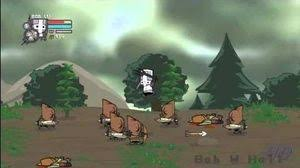
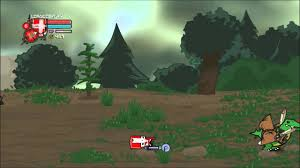
setup enemies

diff --git a/assets/apps/game.js b/assets/apps/game.js
@@ -58,9 +58,37 @@ var choice = 0
 
 startPage()
 
-var enemy = [{
-    name: 'Theif',
+var enemy = [ {
+    name: 'Barbarian',
     health: 100,
+    maxHealth: 100,
+    hits: 0,
+    damage: {
+        quick: 15,
+        heavy: 20,
+        arrow: 10,
+        poison: 15
+    },
+    img: ['assets/pics/barbarian.png', '300vh'],
+    backImg: 'url("assets/pics/castle.jpg")',
+    poisoned: -1,
+    shocked: 0,
+    frozen: 0,
+    healthBonus: 0,
+    attack: {
+        attackName1: 'Quick Attack',
+        attackName2: 'Heavy Attack',
+        attackName3: 'Arrow',
+        quick: 12,
+        heavy: 20,
+        range: 5,
+        rangebase: 5,
+        hitChance: [0, 1, 1, 2, 3]
+    }, 
+}, {
+    name: 'Thief',
+    health: 100,
+    maxHealth: 100,
     hits: 0,
     damage: {
         quick: 10,
@@ -68,7 +96,7 @@ var enemy = [{
         arrow: 25,
         poison: 10
     },
-    img: 'assets/pics/thief.png',
+    img: ['assets/pics/thief.png', '200vh'],
     backImg: 'url("assets/pics/forrest-background.jpg")',
     poisoned: -1,
     shocked: 0,
@@ -85,16 +113,71 @@ var enemy = [{
         hitChance: [0, 0, 1, 1, 1, 2, 3, 3]
     } 
 }, {
-    name: 'Theif2',
+    name: 'Bear',
     health: 100,
+    maxHealth: 100,
+    hits: 0,
+    damage: {
+        quick: 15,
+        heavy: 15,
+        arrow: 10,
+        poison: 5
+    },
+    img: ['assets/pics/bear.png', '200vh'],
+    backImg: 'url("assets/pics/grass.jpg")',
+    poisoned: -1,
+    shocked: 0,
+    frozen: 0,
+    healthBonus: 0,
+    attack: {
+        attackName1: 'Quick Attack',
+        attackName2: 'Heavy Attack',
+        attackName3: 'Ice Ball',
+        quick: 10,
+        heavy: 15,
+        range: 10,
+        rangebase: 10,
+        hitChance: [1, 1, 1, 1, 2, 3]
+    }, 
+}, {
+    name: 'Cone Head',
+    health: 125,
+    maxHealth: 125,
     hits: 0,
     damage: {
         quick: 10,
-        heavy: 15,
-        arrow: 25,
-        poison: 10
+        heavy: 10,
+        arrow: 10,
+        poison: 1
     },
-    img: 'assets/pics/thief.png',
+    img: ['assets/pics/conehead.png', '200vh'],
+    backImg: 'url("assets/pics/wedding.jpg")',
+    poisoned: -1,
+    shocked: 0,
+    frozen: 0,
+    healthBonus: 0,
+    attack: {
+        attackName1: 'Quick Attack',
+        attackName2: 'Heavy Attack',
+        attackName3: 'Arrow Rain',
+        quick: 10,
+        heavy: 15,
+        range: 25,
+        rangebase: 25,
+        hitChance: [0, 0, 1, 1, 1, 1, 2, 2, 3]
+    }, 
+}, {
+    name: 'Beefy Thief',
+    health: 200,
+    maxHealth: 200,
+    hits: 0,
+    damage: {
+        quick: 15,
+        heavy: 20,
+        arrow: 15,
+        poison: 15
+    },
+    img: ['assets/pics/beefy-thief.png', '200vh'],
     backImg: 'url("assets/pics/forrest-background.jpg")',
     poisoned: -1,
     shocked: 0,
@@ -104,18 +187,99 @@ var enemy = [{
         attackName1: 'Quick Attack',
         attackName2: 'Heavy Attack',
         attackName3: 'Arrow',
-        quick: 5,
-        heavy: 10,
-        range: 25,
-        rangebase: 25,
-        hitChance: [0, 0, 1, 1, 1, 2, 3, 3]
+        quick: 10,
+        heavy: 20,
+        range: 15,
+        rangebase: 15,
+        hitChance: [0, 0, 0, 1, 1, 1, 2, 3]
     }, 
-},]
+}, {
+    name: 'Fishman',
+    health: 150,
+    maxHealth: 150,
+    hits: 0,
+    damage: {
+        quick: 15,
+        heavy: 20,
+        arrow: 5,
+        poison: 10
+    },
+    img: ['assets/pics/fishman.png', '200vh'],
+    backImg: 'url("assets/pics/temple.jpg")',
+    poisoned: -1,
+    shocked: 0,
+    frozen: 0,
+    healthBonus: 0,
+    attack: {
+        attackName1: 'Quick Attack',
+        attackName2: 'Heavy Attack',
+        attackName3: 'Arrow',
+        quick: 15,
+        heavy: 5,
+        range: 0,
+        rangebase: 0,
+        hitChance: [0, 0, 0, 1, 1, 1,2]
+    }, 
+}, {
+    name: 'Beefy Alien',
+    health: 200,
+    maxHealth: 200,
+    hits: 0,
+    damage: {
+        quick: 15,
+        heavy: 20,
+        arrow: 10,
+        poison: 15
+    },
+    img: ['assets/pics/alien.png', '200vh'],
+    backImg: 'url("ship.jpg")',
+    poisoned: -1,
+    shocked: 0,
+    frozen: 0,
+    healthBonus: 0,
+    attack: {
+        attackName1: 'Quick Attack',
+        attackName2: 'Heavy Attack',
+        attackName3: 'Laser',
+        quick: 10,
+        heavy: 15,
+        range: 15,
+        rangebase: 15,
+        hitChance: [0, 1, 1, 2, 3]
+    }, 
+}, {
+    name: 'Barbarian Boss',
+    health: 200,
+    maxHealth: 200,
+    hits: 0,
+    damage: {
+        quick: 3,
+        heavy: 8,
+        arrow: 3,
+        poison: 8
+    },
+    img: ['assets/pics/boss.png', '200vh'],
+    backImg: 'url("assets/pics/bossbattle.jpg")',
+    poisoned: -1,
+    shocked: 0,
+    frozen: 0,
+    healthBonus: 0,
+    attack: {
+        attackName1: 'Spikes',
+        attackName2: 'Slam',
+        attackName3: 'Arrow',
+        quick: 20,
+        heavy: 30,
+        range: 5,
+        rangebase: 25,
+        hitChance: [0, 0, 0, 2]
+    }, 
+}]
 
 
 var player = [{
     name: 'Green Knight',
-    img: 'assets/pics/greenknight.png',
+    img: ['assets/pics/greenknight.png', '200vh'],
     maxHealth: 100,
     health: 100,
     hits: 0,
@@ -130,7 +294,7 @@ var player = [{
     magicAtt: ['Poison'],
 }, {
     name: 'Red Knight',
-    img: 'assets/pics/redknight.png',
+    img: ['assets/pics/redknight.png', '200vh'],
     maxHealth: 100,
     health: 100,
     hits: 0,
@@ -145,7 +309,7 @@ var player = [{
     magicAtt: ['lightning'],
 }, {
     name: 'Blue Knight',
-    img: 'assets/pics/blueknight.png',
+    img: ['assets/pics/blueknight.png', '200vh'],
     maxHealth: 100,
     health: 100,
     hits: 0,
@@ -189,7 +353,7 @@ var Item = function (itemName, itemMod, itemQ) {
 }
 
 var items = {
-    Potion: new Item("Health Potion", 25, 5),
+    Potion: new Item("Health Potion", 25, 10),
     Shield: new Item("Shield", 0.5, 5),
     Sandwhich: new Item("Sandwhich", 2, 2)
 }
@@ -232,7 +396,7 @@ function charName(name, nameId) {
 }
 
 function charImg(img, imgId) {
-    document.getElementById(imgId).innerHTML = '<img src="' + img + '" class="char-img">'
+    document.getElementById(imgId).innerHTML = '<img src="' + img[0] + '" class="char-img" height="' +img[1]+ '">'
 }
 
 function levelIncrease(enemy) {

diff --git a/assets/styles/game.css b/assets/styles/game.css
@@ -17,6 +17,7 @@
 #blue-knight {
     background-size: 30vh
 }
+
 .btn-start {
     margin-top: 30vh;
     margin-left: 7vh;
@@ -24,4 +25,24 @@
 }
 #green-knight {
     margin-left:25%;
+}
+
+#playerimg {
+    width: 10vh;
+    margin-top: 3vh;
+    margin-bottom: 3vh;
+}
+
+#background-img {
+    background-repeat: no-repeat;
+    background-size: 100%
+}
+
+#display {
+    background-color: lightblue;
+    color: white;
+    text-align: center;
+    margin-top: 1vh;
+    border-style: solid;
+    border-radius: 15px;
 }
